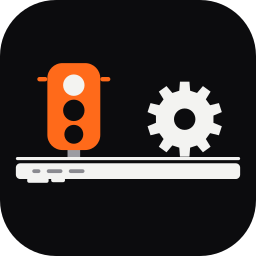
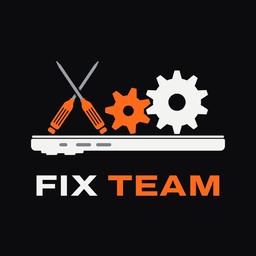
Add files via upload

diff --git a/common.js b/common.js
@@ -934,3 +934,134 @@ const esc = s => String(s == null ? '' : s).replace(/[&<>"']/g, c =>
     if(wouldLeak(scrollerIn(menu, e.target), -e.deltaY)) e.preventDefault();
   }, { passive:false, capture:true });
 })();
+
+// ============================================================
+// 🎨 (٢٠٢٦-١٠-١٩) ألوان لوجو FIX TEAM — لكل الشاشات من مكان واحد
+// ------------------------------------------------------------
+// 🧸 بالبلدي: كل شاشة في النظام مدهونة بأسامي ألوان (متغيّرات) جوه
+//    ملفها هي. بدل ما نفتح كل شاشة وندهنها لوحدها (الداشبورد لوحده
+//    ميجا!)، الكود ده «بيدهن فوق» الأسامي دي من هنا — وcommon.js
+//    محمّل في كل الشاشات، فكلهم بيتلوّنوا مرة واحدة.
+//
+//    الألوان جاية من اللوجو نفسه:
+//      ⬛ أسود اللوجو   #0C0C0E → الشريط اللي فوق في كل الشاشات
+//      🟧 برتقالي اللوجو #FC6818 → خط رفيع تحت الشريط + الزراير
+//      ⬜ أبيض الترس    #F2F2F1 → الكلام على الأسود
+//    والوضع الغامق بقى رمادي فحمي (زي خلفية اللوجو) بدل الكحلي.
+//
+// ⚠ ألوان الحالات (أخضر اتصلح · أحمر مرفوض · بنفسجي كشف …) **ماتغيّرتش**
+//    عن قصد — دي بتقول معلومة للموظف، مش ديكور.
+// ⚠ على الفاتح، الزرار البرتقالي أغمق درجة (#D9530A) عن برتقالي
+//    اللوجو — الأبيض على البرتقالي الأصلي بيتقري بالعافية (تباين ٢٫٩).
+//    على الأسود بنستخدم البرتقالي الأصلي زي ما هو (تباين ٦٫٦).
+// ⚠ ليه [data-ifx-brand] في الأسماء؟ عشان قاعدتنا «تكسب» قاعدة الشاشة
+//    نفسها (الشاشة بتتكتب بعدنا في الصفحة، فلازم نبقى أقوى منها).
+// ⚠ صفحة الدخول (index.html) مش بتحمّل common.js — اتلوّنت لوحدها.
+// 🔙 عايز ترجع الألوان القديمة؟ امسح البلوك ده كله. خلاص.
+// ============================================================
+(function(){
+  if(window.__ifxBrand) return;
+  window.__ifxBrand = true;
+  try{
+    var page = (location.pathname.split('/').pop() || '').toLowerCase().replace(/\.html$/,'') || 'index';
+    var root = document.documentElement;
+    root.setAttribute('data-ifx-brand', '');
+
+    var L = 'html[data-ifx-brand]:not([data-theme="dark"])';
+    var D = 'html[data-ifx-brand][data-theme="dark"]';
+    var A = 'html[data-ifx-brand]';
+
+    // 🔴 «--red» في شاشات الفني والحركة والمالك كان لون اللوجو القديم
+    //    (التروس الحمرا) — فبقى برتقالي. في الشاشات التانية «--red»
+    //    معناه «خطر» فبيفضل أحمر.
+    var redIsBrand = ['my-devices','dispatch','owner'].indexOf(page) !== -1;
+
+    var css =
+      // ===== ☀ الفاتح =====
+      L + '{'
+      + '--ifx-orange:#FC6818;'
+      // عيلة الداشبورد
+      + '--bg:#E9E9E6;--surface:#FFFFFF;--surface-2:#F7F7F5;--surface-3:#F0F0EE;--surface-alt:#EEEEEC;'
+      + '--border:#E2E2DE;--border-strong:#CFCFC9;'
+      + '--ink:#141416;--ink-2:#4A4A50;--ink-3:#2E2E33;--muted:#6B6B72;--muted-2:#6B6B72;'
+      + '--accent:#D9530A;--accent-dark:#B8460A;--on-accent:#FFFFFF;'
+      + '--chrome:#0C0C0E;--chrome-ink:#F2F2F1;'
+      // عيلة الفني/الحركة/المالك + الصفحات الجديدة
+      + '--on-chrome:#F2F2F1;--steel:#0C0C0E;--steel-2:#1F1F23;--steel-ink:#F2F2F1;'
+      + '--paper:#E9E9E6;--card:#FFFFFF;--line:#E2E2DE;--soft:#F3F3F1;--faint:#96969C;'
+      + '--brand:#D9530A;'
+      + (redIsBrand ? '--red:#D9530A;--red-dark:#B8460A;' : '')
+      + '}'
+      // ===== 🌙 الغامق =====
+      + D + '{'
+      + '--ifx-orange:#FC6818;'
+      + '--bg:#0E0E10;--surface:#18181B;--surface-2:#202024;--surface-3:#28282D;--surface-alt:#202024;'
+      + '--border:#2D2D33;--border-strong:#3C3C43;'
+      + '--ink:#F2F2F1;--ink-2:#C9C9CD;--ink-3:#DADADD;--muted:#9A9AA2;--muted-2:#7C7C84;'
+      + '--accent:#FF7A2E;--accent-dark:#FF904F;--on-accent:#140A04;'
+      + '--chrome:#09090A;--chrome-ink:#F2F2F1;'
+      + '--on-chrome:#F2F2F1;--on-color:#0C0C0E;--steel:#09090A;--steel-2:#18181B;--steel-ink:#F2F2F1;'
+      + '--paper:#0E0E10;--card:#18181B;--line:#2D2D33;--soft:#202024;--faint:#74747C;'
+      + '--brand:#FF7A2E;'
+      + (redIsBrand ? '--red:#FF7A2E;--red-dark:#FF904F;' : '')
+      + '}'
+
+      // ===== ⭐ التوقيع: خط برتقالي رفيع تحت الشريط الأسود — زي اللوجو بالظبط =====
+      + A + ' .topbar{box-shadow:inset 0 -3px 0 #FC6818, 0 2px 10px rgba(0,0,0,.22) !important;}'
+
+      // ===== الزراير البرتقالي في الغامق: الكلام عليها أسود (الأبيض مش باين) =====
+      + D + ' .btn-primary,' + D + ' .tv-ok,' + D + ' .acc-save,' + D + ' .due-chip.on,'
+      + D + ' .pr-q.on,' + D + ' .oh-back,' + D + ' .tv-sw.on{color:var(--on-accent);}'
+
+      // ===== لمسات كانت مكتوبة باللون الفيروزي القديم بالإيد =====
+      + A + ' .topbar-actions .btn-primary{box-shadow:0 3px 12px rgba(217,83,10,.32);}'
+      + A + ' .tech-select:focus{box-shadow:0 0 0 3px rgba(252,104,24,.18);}'
+      + A + ' .gs-box:focus-within{box-shadow:0 3px 16px rgba(252,104,24,.16);}'
+      + A + ' .field input:focus,' + A + ' .field textarea:focus{outline-color:rgba(252,104,24,.35);}'
+      + A + ' .set-opt.active{background:rgba(252,104,24,.08);}'
+      + A + ' .inv-card.open{box-shadow:0 4px 16px rgba(252,104,24,.20);}'
+      + A + ' .ip-fill{background:var(--accent);}'
+      + L + ' .tv-mode-btn.sel{background:#FFF1E8;}'
+      + D + ' .tv-mode-btn.sel{background:rgba(255,122,46,.14);}'
+      // الحدود الرمادي المزرقّة في الفاتح (الداشبورد) → رمادي محايد زي ورق اللوجو
+      + L + ' .column{border-inline-color:#D9D9D3;border-bottom-color:#D9D9D3;}'
+      + L + ' .day-column,' + L + ' .menu-dropdown{border-color:#D9D9D3;}'
+
+      // ===== حاجات common.js نفسه (كانت فيروزي ثابت) =====
+      + '#ifxUpdBar{background:#0C0C0E !important;border:1px solid #FC6818;}'
+      + '#ifxUpdGo{background:#FC6818 !important;color:#0C0C0E !important;}'
+      + '#svcStopOv{background:#0C0C0E !important;}'
+      + '#svcStopOk{background:#FC6818 !important;color:#0C0C0E !important;}'
+      + '#accSharedOv button[onclick^="saveAccountShared"]{background:#FC6818 !important;color:#0C0C0E !important;}';
+
+    var st = document.createElement('style');
+    st.id = 'ifxBrandCss';
+    st.textContent = css;
+    (document.head || root).appendChild(st);
+
+    // ===== لون شريط الساعة على الموبايل = لون الشريط اللي فوق =====
+    // ⚠ كل شاشة بتحط لونها القديم (كحلي) وقت ما الثيم يتغيّر —
+    //    فبنراقب ونرجّعه أسود كل مرة.
+    function syncBar(){
+      try{
+        var dark = root.getAttribute('data-theme') === 'dark';
+        var want = dark ? '#09090A' : '#0C0C0E';
+        var metas = document.querySelectorAll('meta[name="theme-color"]');
+        for(var i = 0; i < metas.length; i++){
+          if(metas[i].getAttribute('content') !== want) metas[i].setAttribute('content', want);
+        }
+      }catch(e){}
+    }
+    syncBar();
+    addEventListener('DOMContentLoaded', syncBar);
+    try{
+      new MutationObserver(syncBar).observe(root, { attributes:true, attributeFilter:['data-theme'] });
+      addEventListener('DOMContentLoaded', function(){
+        var metas = document.querySelectorAll('meta[name="theme-color"]');
+        for(var i = 0; i < metas.length; i++){
+          new MutationObserver(syncBar).observe(metas[i], { attributes:true, attributeFilter:['content'] });
+        }
+      });
+    }catch(e){}
+  }catch(e){ console.warn('ifx brand:', e); }
+})();

diff --git a/sw.js b/sw.js
@@ -12,6 +12,7 @@
 //       شغّال بالكود القديم لحد ما الموظف يقفل التطبيق بإيده.
 //
 // ⚠ لو ضفت صفحة أو ملف جديد للنظام: زوّده كمان في APP_SHELL تحت.
+// v144 — 🎨 ألوان لوجو FIX TEAM في كل الشاشات (common.js بيدهن فوق ألوان كل شاشة): الشريط اللي فوق أسود اللوجو وتحته خط برتقالي · الزراير برتقالي بدل الفيروزي · الغامق رمادي فحمي بدل الكحلي · شريط الساعة أسود · ألوان الحالات زي ما هي — 🖼 كل الأيقونات بقت لوجو FIX TEAM نفسه (الرئيسية + الفني + المالك + الحركة) + أيقونات maskable للأندرويد في manifest.json (من غير SQL)
 // v143 — 🏷 الاسم بقى FIX TEAM في كل حتة الناس بتشوفها: عناوين الصفحات · الاسم تحت أيقونة التطبيق (manifest.json + apple-mobile-web-app-title) · رسايل الواتساب للعملاء والمحلات · الإيصال · كشوف الإكسل · الليبل المطبوع · الإشعارات · i18n — الأسامي الداخلية (ifix-theme · ifixteam-vXX) زي ما هي عن قصد (من غير SQL)
 // v142 — 🎨 لوجو FIX TEAM في صفحة الدخول ومتابعة العميل: logo-light.png (للفاتح) و logo-dark.png (للداكن) · اللوجو واقف فوق كارت الدخول (الكارت مابقاش راكب عليه) · الشريط وزرار «دخول» وإطار الخانة برتقالي اللوجو · logo.jpg بقى اللوجو الجديد على أسود (من غير SQL)
 // v141 — 🎨 أيقونات FIX TEAM الجديدة (خلفية سودا + برتقالي): الرئيسية = اللوجو (مفكّين + ترسين على موبايل نايم) · الفني 🔧 · المالك 🔑 · الحركة 🚦 — كلهم نفس الموبايل والترس الأبيض · نفس أسامي الملفات (icon-192/512 · apple-touch-icon · favicon · owner/tech/dispatch-icon*) — الصور «الكاش الأول» فالرقم ده لازم يتزوّد عشان الجديدة توصل (من غير SQL)
@@ -73,7 +74,7 @@
 // v85 — حساب المرتجع بيتعدّل بعد التسليم (المبلغ + فوري/آجل) والدفتر بيتظبط معاه
 // v84 — كشف حساب المحل (PDF و Excel): عمود «تاريخ الدخول» + «تاريخ التسليم» بقى «تاريخ الخروج»
 // v83 — payroll.js: شاشة «🧾 كشف مرتبي» للمحاسب العام (ملف 68)
-const CACHE_NAME = 'ifixteam-v143';
+const CACHE_NAME = 'ifixteam-v144';
 
 const APP_SHELL = [
   './',
@@ -131,6 +132,8 @@ const APP_SHELL = [
   'icon-192.png',
   'apple-touch-icon.png',
   'icon-512.png',
+  'icon-maskable-192.png', // 🤖 أيقونة الأندرويد (بيقصّها دايرة/مربع)
+  'icon-maskable-512.png',
 ];
 
 // التثبيت: تخزين ملفات النظام الأساسية

diff --git a/index.html b/index.html
@@ -25,7 +25,7 @@ try{ localStorage.setItem('ifix-lang', 'ar'); }catch(e){}
     else d = window.matchMedia && matchMedia('(prefers-color-scheme: dark)').matches;
     document.documentElement.setAttribute('data-theme', d ? 'dark' : 'light');
     var mt = document.querySelector('meta[name="theme-color"]');
-    if(mt) mt.setAttribute('content', d ? '#131E29' : '#F2F2F1');
+    if(mt) mt.setAttribute('content', d ? '#0E0E10' : '#F2F2F1');
   }catch(e){}
 })();
 </script>
@@ -71,12 +71,13 @@ try{ localStorage.setItem('ifix-lang', 'ar'); }catch(e){}
     color-scheme:dark;
     --brand:#FF6A1A; --brand-hover:#FF8240; --on-brand:#0C0C0E;
     --red:#F0554A; --red-dark:#D13B2E; --blue:#8B9BFF; --gold:#E3B85C;
-    --ink:#E9EFF5; --paper:#131E29;
-    --card:rgba(27,42,58,.88); --card-bd:rgba(255,255,255,.10);
-    --sub:#92A6B8; --field:#22323F; --field-bd:#2F4356;
+    /* 🎨 (٢٠٢٦-١٠-١٩) رمادي فحمي زي خلفية اللوجو بدل الكحلي */
+    --ink:#F2F2F1; --paper:#0E0E10;
+    --card:rgba(24,24,27,.90); --card-bd:rgba(255,255,255,.08);
+    --sub:#9A9AA2; --field:#202024; --field-bd:#2D2D33;
     --renew-bg:rgba(234,203,132,.13); --renew-bd:rgba(234,203,132,.38); --renew-ink:#F0CE84;
     --wallet-bg:rgba(255,255,255,.06); --wallet-bd:#C9A24E;
-    --btn-off:#2F4356; --btn-off-ink:#92A6B8;
+    --btn-off:#2D2D33; --btn-off-ink:#9A9AA2;
     --on-red:#FFFFFF;
   }
   *{box-sizing:border-box;}
